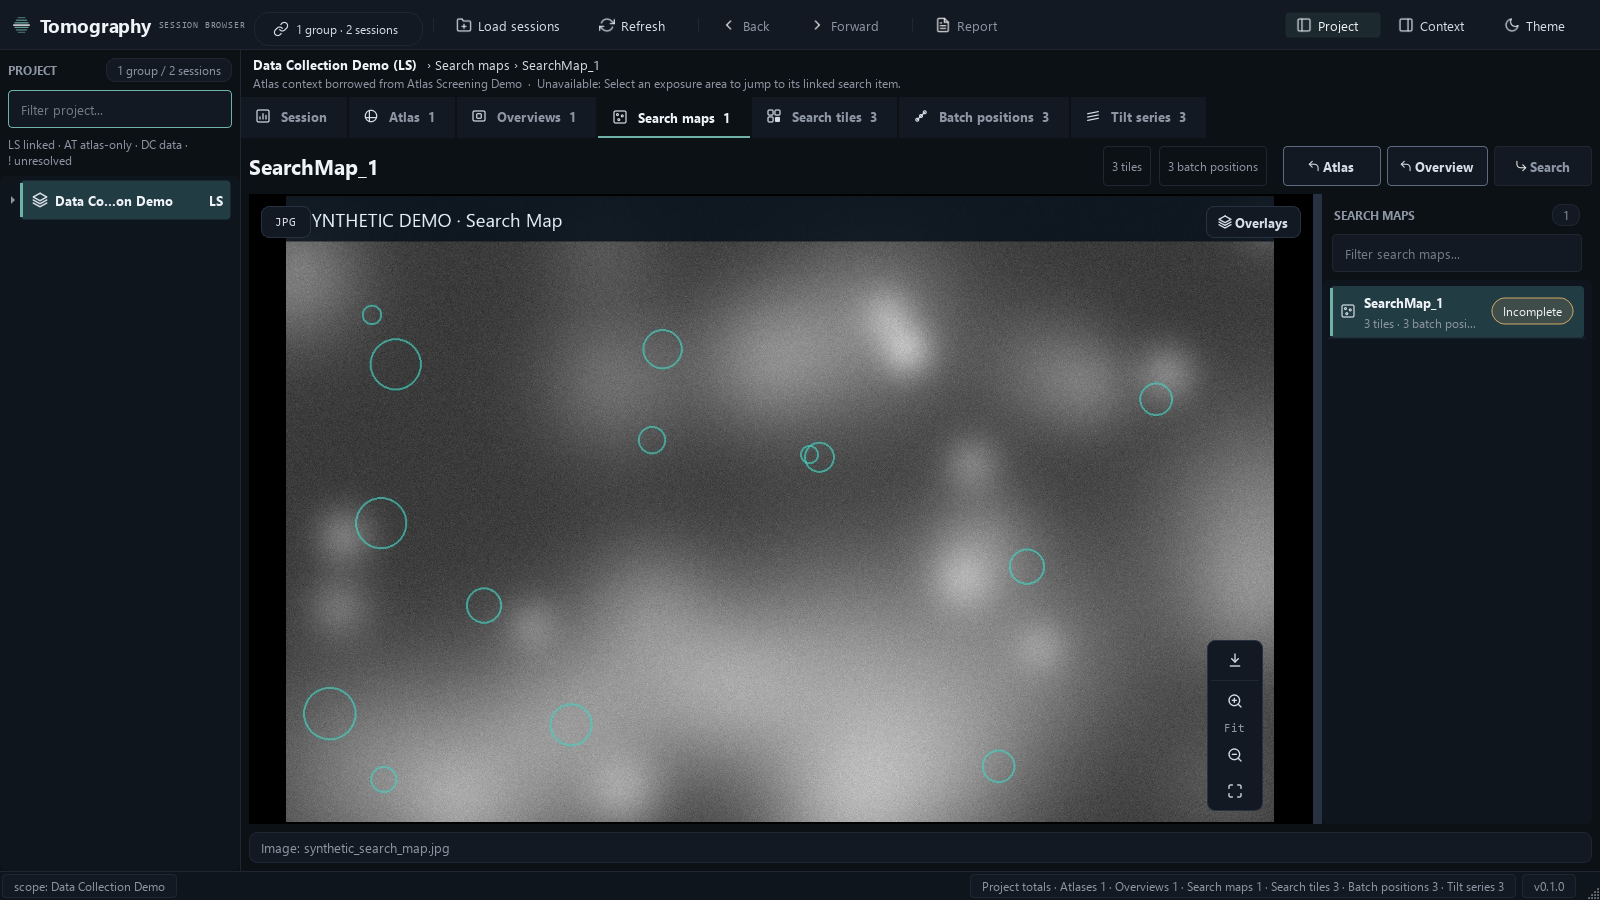
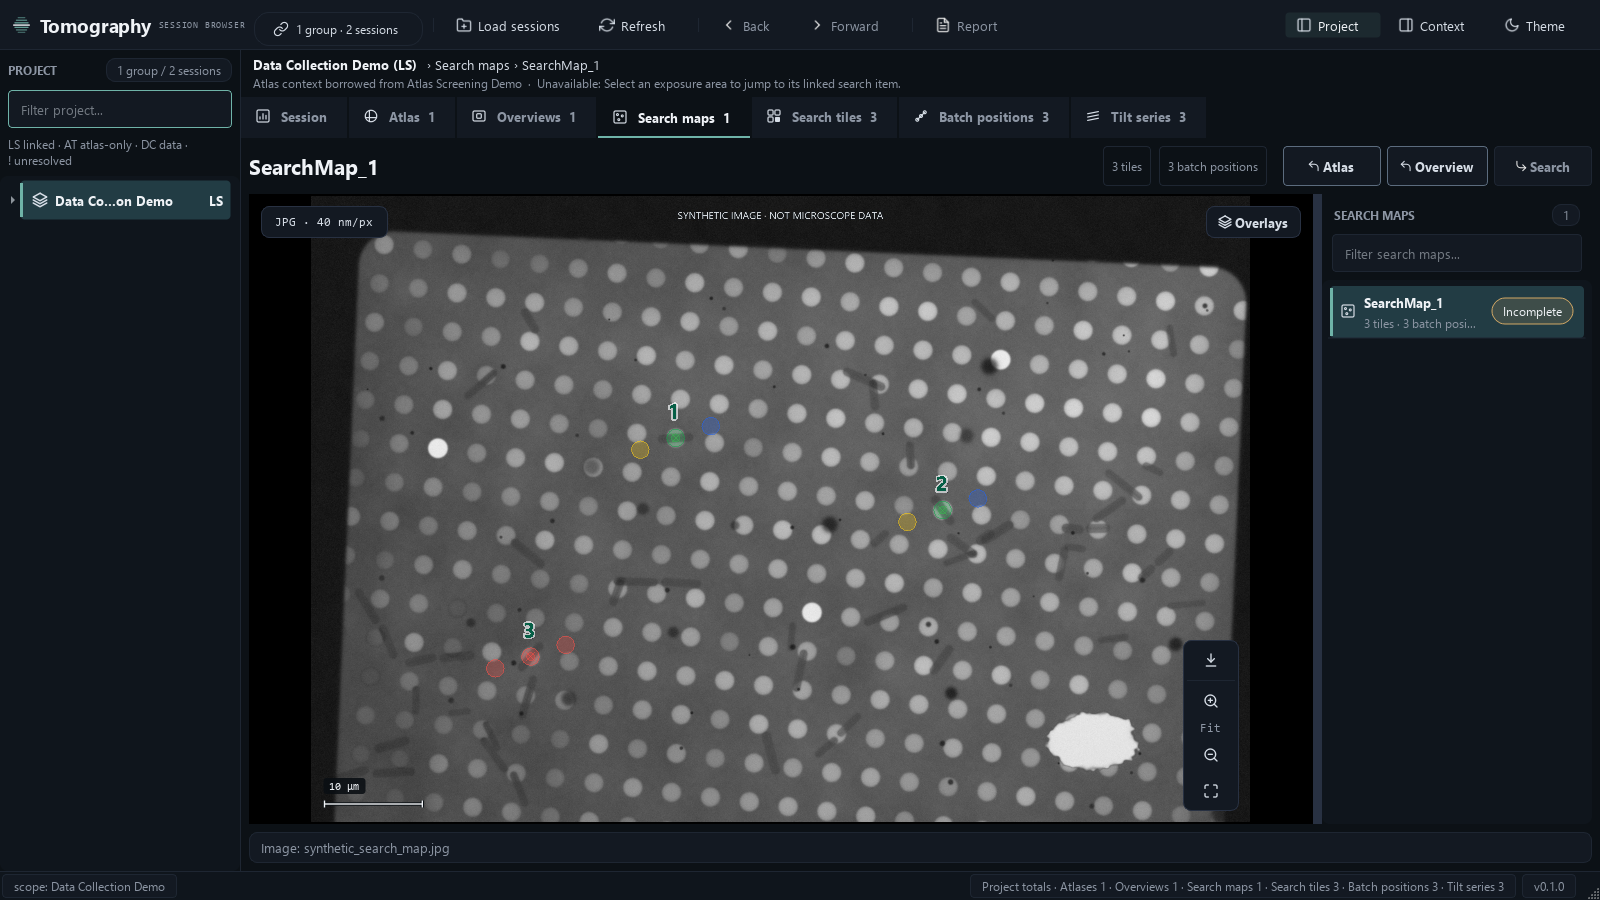
Edit readme

Changed region(s): [[0.1562, 0.2178, 0.8125, 0.9333]]

diff --git a/tools/generate_readme_screenshots.py b/tools/generate_readme_screenshots.py
@@ -21,7 +21,7 @@ import time
 os.environ.setdefault("QT_QPA_PLATFORM", "offscreen")
 
 import numpy as np
-from PIL import Image, ImageDraw, ImageFont
+from PIL import Image, ImageDraw, ImageFilter, ImageFont
 from PySide6.QtCore import QCoreApplication, QEvent, QThreadPool
 from PySide6.QtGui import QFontDatabase
 from PySide6.QtWidgets import QApplication
@@ -39,7 +39,12 @@ from tomography_session_browser.domain.models import (
     Session,
     TiltSeries,
 )
+from tomography_session_browser.domain.markers import MarkerType
 from tomography_session_browser.parsers.session_scanner import SessionScanner
+from tomography_session_browser.services.marker_service import (
+    BEAM_DIAMETER_EXPOSURE_MRC_CONTEXT,
+    search_map_markers,
+)
 from tomography_session_browser.services.settings_service import Settings
 from tomography_session_browser.ui import main_window as main_window_module
 from tomography_session_browser.ui.load_sessions_dialog import LoadSessionsDialog
@@ -93,7 +98,213 @@ def _synthetic_micrograph(path: Path, *, seed: int, title: str, width: int = 150
     image.save(path, quality=92)
 
 
-def _prepare_temporary_files() -> dict[str, Path]:
+#: The synthetic search map: one grid square of holey carbon at 40 nm/px
+#: (96 x 64 um), the scale of a Tomography 5 search-map montage.
+SEARCH_MAP_SIZE = (2400, 1600)
+SEARCH_MAP_PIXEL_SIZE_M = 40e-9
+_HOLE_PITCH_PX = 100.0  # 4 um: an R2/2-style holey film
+_HOLE_RADIUS_PX = 25.0  # 2 um holes
+_HOLE_LATTICE_ANGLE = np.deg2rad(7.0)
+#: Where the three demo targets sit, as fractions of the image: two in thin
+#: ice, the failed one in the thicker ice towards the lower left.
+_TARGET_FRACTIONS = ((0.40, 0.36), (0.66, 0.52), (0.24, 0.74))
+
+
+def _smooth_noise(rng: np.random.Generator, shape: tuple[int, int], cell: int) -> np.ndarray:
+    """Low-frequency noise in about [-1, 1]: a coarse random grid, upsampled."""
+
+    height, width = shape
+    coarse = rng.normal(0.0, 1.0, size=(height // cell + 3, width // cell + 3)).astype(np.float32)
+    image = Image.fromarray(coarse, mode="F").resize((width + 2 * cell, height + 2 * cell), Image.Resampling.BICUBIC)
+    field = np.asarray(image, dtype=np.float32)[cell : cell + height, cell : cell + width]
+    return field / max(float(np.abs(field).max()), 1e-6)
+
+
+def _hole_centre_near(x: float, y: float) -> tuple[float, float]:
+    """The centre of the lattice hole nearest to image point (x, y)."""
+
+    cos_a, sin_a = np.cos(_HOLE_LATTICE_ANGLE), np.sin(_HOLE_LATTICE_ANGLE)
+    u = round((x * cos_a + y * sin_a) / _HOLE_PITCH_PX) * _HOLE_PITCH_PX
+    v = round((-x * sin_a + y * cos_a) / _HOLE_PITCH_PX) * _HOLE_PITCH_PX
+    return float(u * cos_a - v * sin_a), float(u * sin_a + v * cos_a)
+
+
+def _sigmoid(values: np.ndarray) -> np.ndarray:
+    return 1.0 / (1.0 + np.exp(np.clip(values, -60.0, 60.0)))
+
+
+def _paint_cell(
+    image: np.ndarray,
+    in_hole: np.ndarray,
+    centre: tuple[float, float],
+    angle: float,
+    length: float,
+    width: float,
+    darkness: float,
+) -> None:
+    """Darken a rod-shaped cell (a capsule with a membrane rim) into ``image``.
+
+    A cell over a hole has far more contrast than one lying on carbon.
+    """
+
+    half = length / 2.0 + width
+    x0 = max(int(centre[0] - half - 4), 0)
+    x1 = min(int(centre[0] + half + 4), image.shape[1])
+    y0 = max(int(centre[1] - half - 4), 0)
+    y1 = min(int(centre[1] + half + 4), image.shape[0])
+    if x0 >= x1 or y0 >= y1:
+        return
+    yy, xx = np.mgrid[y0:y1, x0:x1].astype(np.float32)
+    along = (xx - centre[0]) * np.cos(angle) + (yy - centre[1]) * np.sin(angle)
+    across = -(xx - centre[0]) * np.sin(angle) + (yy - centre[1]) * np.cos(angle)
+    core = np.clip(along, -(length / 2.0 - width / 2.0), length / 2.0 - width / 2.0)
+    distance = np.hypot(along - core, across) - width / 2.0
+    inside = _sigmoid(distance / 1.8)
+    rim = np.exp(-((distance + 1.5) ** 2) / (2 * 1.6**2))
+    # Denser towards the long axis, like a cell's cytoplasm.
+    density = 0.8 + 0.2 * np.clip(1.0 - np.abs(across) / (width / 2.0), 0.0, 1.0)
+    contrast = darkness * (0.45 + 0.55 * in_hole[y0:y1, x0:x1])
+    image[y0:y1, x0:x1] *= (1.0 - contrast * inside * density) * (1.0 - 0.14 * rim * (0.4 + 0.6 * in_hole[y0:y1, x0:x1]))
+
+
+def _synthetic_search_map(path: Path, *, seed: int = 4207) -> list[tuple[float, float]]:
+    """Write a plausible synthetic search map; return the demo targets' pixels.
+
+    Entirely procedural, no microscope data: a grid square between copper
+    bars, a holey carbon film whose ice thickens towards the lower left, rod-
+    shaped cells lying across it, ice contamination, a torn patch of film and
+    the faint tile seams of a montage. Each target is a cell over a hole.
+    """
+
+    width, height = SEARCH_MAP_SIZE
+    rng = np.random.default_rng(seed)
+    yy, xx = np.mgrid[0:height, 0:width].astype(np.float32)
+
+    # The grid square: rounded, slightly rotated, bars at the top and sides.
+    grid_angle = np.deg2rad(2.5)
+    centre_x, centre_y = width / 2.0 + 10.0, height / 2.0 + 470.0
+    gx = (xx - centre_x) * np.cos(grid_angle) + (yy - centre_y) * np.sin(grid_angle)
+    gy = -(xx - centre_x) * np.sin(grid_angle) + (yy - centre_y) * np.cos(grid_angle)
+    half, corner = 1135.0, 90.0
+    qx, qy = np.abs(gx) - (half - corner), np.abs(gy) - (half - corner)
+    edge = np.hypot(np.maximum(qx, 0), np.maximum(qy, 0)) + np.minimum(np.maximum(qx, qy), 0) - corner
+    open_area = _sigmoid(edge / 2.5)
+
+    # Ice thickness (0 thin .. 1 thick): thin to the upper right, thicker
+    # towards the lower left and against the bars, where the meniscus sits.
+    thickness = 0.42 - 0.26 * (xx - width / 2.0) / (width / 2.0) + 0.22 * (yy - height / 2.0) / (height / 2.0)
+    thickness += 0.42 * np.exp(np.clip(edge, -1e4, 0.0) / 230.0)
+    thickness += 0.16 * _smooth_noise(rng, (height, width), 170)
+    thickness = np.clip(thickness, 0.0, 1.0)
+
+    film = 0.40 - 0.16 * thickness
+    film += 0.03 * _smooth_noise(rng, (height, width), 70) + 0.018 * _smooth_noise(rng, (height, width), 14)
+
+    # Holes: a square lattice; each hole has its own ice, a few are broken.
+    cos_a, sin_a = np.cos(_HOLE_LATTICE_ANGLE), np.sin(_HOLE_LATTICE_ANGLE)
+    u = xx * cos_a + yy * sin_a
+    v = -xx * sin_a + yy * cos_a
+    iu = np.round(u / _HOLE_PITCH_PX).astype(np.int32)
+    iv = np.round(v / _HOLE_PITCH_PX).astype(np.int32)
+    radial = np.hypot(u - iu * _HOLE_PITCH_PX, v - iv * _HOLE_PITCH_PX) / _HOLE_RADIUS_PX
+    span = (int(iu.min()), int(iv.min()))
+    table_shape = (int(iu.max()) - span[0] + 1, int(iv.max()) - span[1] + 1)
+    hole_offset = rng.normal(0.0, 0.09, size=table_shape).astype(np.float32)
+    broken = rng.random(size=table_shape) < 0.015
+    local_thickness = np.clip(thickness + hole_offset[iu - span[0], iv - span[1]], 0.0, 1.1)
+    # Where the ice is thinnest some holes hold none at all.
+    empty = broken[iu - span[0], iv - span[1]] | (local_thickness < 0.06)
+    hole_ice = 0.94 - 0.62 * local_thickness
+    hole_ice *= 1.0 - 0.22 * np.clip(radial, 0, 1) ** 5  # the thicker meniscus at the rim
+    hole_ice = np.where(empty, 0.97, hole_ice)
+    in_hole = _sigmoid((radial - 1.0) * _HOLE_RADIUS_PX / 1.1)
+    image = film * (1.0 - in_hole) + hole_ice * in_hole
+
+    # A torn patch of film near the lower right: bare grid behind a jagged,
+    # slightly curled carbon edge.
+    tear_x, tear_y = width * 0.83, height * 0.87
+    tear = np.hypot((xx - tear_x) / 115.0, (yy - tear_y) / 70.0)
+    tear += 0.3 * _smooth_noise(rng, (height, width), 30) + 0.12 * _smooth_noise(rng, (height, width), 9)
+    torn = _sigmoid((tear - 1.0) * 40.0)
+    torn_rim = np.exp(-((tear - 1.03) ** 2) / 0.0012)
+    image = image * (1.0 - torn) + 0.96 * torn
+    image *= 1.0 - 0.35 * torn_rim * (1.0 - torn)
+    in_hole = np.maximum(in_hole, torn)
+
+    # Cells: one over each target hole; the rest partly in loose clumps, as
+    # cells settle on a grid, partly scattered.
+    targets = [_hole_centre_near(fx * width, fy * height) for fx, fy in _TARGET_FRACTIONS]
+    cells = [(target, rng.uniform(0, np.pi), rng.uniform(80, 105), rng.uniform(19, 23)) for target in targets]
+    clumps = [(rng.uniform(300, width - 300), rng.uniform(400, height - 200)) for _ in range(4)]
+    while len(cells) < 42:
+        if rng.random() < 0.45:
+            clump = clumps[int(rng.integers(len(clumps)))]
+            centre = (float(clump[0] + rng.normal(0, 110)), float(clump[1] + rng.normal(0, 80)))
+        else:
+            centre = (float(rng.uniform(100, width - 100)), float(rng.uniform(230, height - 40)))
+        if np.hypot(centre[0] - tear_x, centre[1] - tear_y) < 170:
+            continue
+        if min(np.hypot(centre[0] - tx, centre[1] - ty) for tx, ty in targets) < 90:
+            continue  # each target is one clear cell
+        cells.append((centre, rng.uniform(0, np.pi), rng.uniform(50, 120), rng.uniform(15, 23)))
+    for index, (centre, angle, length, cell_width) in enumerate(cells):
+        _paint_cell(image, in_hole, centre, angle, length, cell_width, darkness=rng.uniform(0.44, 0.56))
+        if index >= len(targets) and rng.random() < 0.2:  # a dividing pair
+            offset = length + 4.0
+            twin = (centre[0] + offset * np.cos(angle), centre[1] + offset * np.sin(angle))
+            _paint_cell(image, in_hole, twin, angle + rng.normal(0, 0.12), length * 0.9, cell_width, darkness=0.5)
+
+    # Ice contamination: small dense crystals, a few larger lumps.
+    for _ in range(70):
+        cx, cy = rng.uniform(0, width), rng.uniform(150, height)
+        radius = rng.uniform(2.0, 7.0) if rng.random() < 0.85 else rng.uniform(10.0, 22.0)
+        x0, x1 = max(int(cx - radius * 3), 0), min(int(cx + radius * 3), width)
+        y0, y1 = max(int(cy - radius * 3), 0), min(int(cy + radius * 3), height)
+        if x0 >= x1 or y0 >= y1:
+            continue
+        local = np.hypot(xx[y0:y1, x0:x1] - cx, yy[y0:y1, x0:x1] - cy) / radius
+        image[y0:y1, x0:x1] *= 1.0 - rng.uniform(0.45, 0.75) * _sigmoid((local - 1.0) * 6.0)
+
+    # Grid bars: opaque copper with a little texture.
+    bars = 0.035 + 0.012 * _smooth_noise(rng, (height, width), 30)
+    image = image * open_area + bars * (1.0 - open_area)
+
+    # Montage: 3 x 2 tiles, each with its own gain and a faint vignette.
+    tile_w, tile_h = width / 3.0, height / 2.0
+    column = np.minimum((xx / tile_w).astype(np.int32), 2)
+    row = np.minimum((yy / tile_h).astype(np.int32), 1)
+    gains = 1.0 + rng.normal(0.0, 0.018, size=(2, 3)).astype(np.float32)
+    local_x = (xx - (column + 0.5) * tile_w) / (tile_w / 2.0)
+    local_y = (yy - (row + 0.5) * tile_h) / (tile_h / 2.0)
+    image *= gains[row, column] * (1.0 - 0.035 * (local_x**2 + local_y**2))
+
+    image += rng.normal(0.0, 0.022, size=image.shape).astype(np.float32)
+    pixels = (14 + 226 * np.clip(image, 0.0, 1.0) ** 0.92).astype(np.uint8)
+    picture = Image.fromarray(pixels, mode="L").filter(ImageFilter.GaussianBlur(0.7)).convert("RGB")
+    # Top centre, on the bar: the viewer's badges and controls cover the corners.
+    draw = ImageDraw.Draw(picture, "RGBA")
+    label, font = "SYNTHETIC IMAGE · NOT MICROSCOPE DATA", _font(26)
+    draw.text(((width - draw.textlength(label, font=font)) / 2, 30), label, fill=(210, 220, 228, 170), font=font)
+    picture.save(path, quality=93)
+    return targets
+
+
+def _search_map_stage_offset(pixel: tuple[float, float]) -> tuple[float, float]:
+    """The stage offset (m) from the map centre that the app draws at ``pixel``.
+
+    The inverse of the app's search-map projection, including the Tomography 5
+    point reflection through the image centre (``marker_service``). ``main``
+    checks the round trip, so a change there fails here, not in the picture.
+    """
+
+    width, height = SEARCH_MAP_SIZE
+    return (
+        (width / 2.0 - 1.0 - pixel[0]) * SEARCH_MAP_PIXEL_SIZE_M,
+        (pixel[1] - height / 2.0 + 1.0) * SEARCH_MAP_PIXEL_SIZE_M,
+    )
+
+
+def _prepare_temporary_files() -> tuple[dict[str, Path], list[tuple[float, float]]]:
     if TEMP_DIRECTORY.exists():
         shutil.rmtree(TEMP_DIRECTORY)
     preview_directory = TEMP_DIRECTORY / "previews"
@@ -111,7 +322,10 @@ def _prepare_temporary_files() -> dict[str, Path]:
         "exposure_3": preview_directory / "synthetic_exposure_3.jpg",
     }
     for index, (label, path) in enumerate(paths.items(), start=1):
+        if label == "search_map":
+            continue
         _synthetic_micrograph(path, seed=3100 + index, title=label.replace("_", " ").title())
+    targets = _synthetic_search_map(paths["search_map"])
 
     atlas_root = TEMP_DIRECTORY / "Atlas_Screening_Demo"
     atlas_sample = atlas_root / "Sample1"
@@ -127,7 +341,7 @@ def _prepare_temporary_files() -> dict[str, Path]:
     (collection_sample / "Session.dm").write_text("<Session />", encoding="utf-8")
     paths["atlas_root"] = atlas_root
     paths["collection_root"] = collection_root
-    return paths
+    return paths, targets
 
 
 def _tilt_series(identifier: str, name: str, count: int, *, start: str, end: str) -> TiltSeries:
@@ -168,7 +382,27 @@ def _tilt_series(identifier: str, name: str, count: int, *, start: str, end: str
     )
 
 
-def _build_demo_sessions(paths: dict[str, Path]) -> tuple[Session, Session, SearchMap]:
+def _target_metadata(pixel: tuple[float, float]) -> dict[str, object]:
+    """Batch-position metadata that places a target, and its areas, at ``pixel``.
+
+    The shape Tomography 5 records: the target's stage position, the beam
+    diameter, and the exposure, focus and tracking areas as offsets from it.
+    """
+
+    stage_x, stage_y = _search_map_stage_offset(pixel)
+    return {
+        "PositionOnTileSet": {"StagePositionX": stage_x, "StagePositionY": stage_y},
+        "BeamDiameter": 1.8e-6,
+        "BeamDiameterContext": BEAM_DIAMETER_EXPOSURE_MRC_CONTEXT,
+        "ExposureTemplateAreaParameters": {"Name": "Exposure", "PositionX": 0.0, "PositionY": 0.0},
+        "FocusTemplateAreaParameters": {"Name": "Focus", "PositionX": 3.6e-6, "PositionY": 1.2e-6},
+        "TrackingTemplateAreaParameters": {"Name": "Tracking", "PositionX": -3.6e-6, "PositionY": -1.2e-6},
+    }
+
+
+def _build_demo_sessions(
+    paths: dict[str, Path], targets: list[tuple[float, float]]
+) -> tuple[Session, Session, SearchMap]:
     display_root = Path("C:/Tomography5_Demo")
     atlas_session_path = display_root / "Atlas_Screening_Demo"
     atlas_sample_path = atlas_session_path / "Sample1"
@@ -211,7 +445,14 @@ def _build_demo_sessions(paths: dict[str, Path]) -> tuple[Session, Session, Sear
         tile_paths=[paths[f"search_tile_{index}"] for index in range(1, 4)],
         linked_batch_position_ids=["demo-bp-1", "demo-bp-2", "demo-bp-3"],
         linked_tilt_series_ids=["demo-tilt-1", "demo-tilt-2", "demo-tilt-3"],
-        metadata={"AcquisitionTime": "2026-01-15 09:12", "PixelSize": "3.2 nm"},
+        metadata={
+            "AcquisitionTime": "2026-01-15 09:12",
+            "SearchMap.dm": {
+                "ImageSize": {"width": SEARCH_MAP_SIZE[0], "height": SEARCH_MAP_SIZE[1]},
+                "StagePosition": {"X": 0.0, "Y": 0.0},
+                "pixelSize": {"x": {"numericValue": SEARCH_MAP_PIXEL_SIZE_M}},
+            },
+        },
     )
     tilts = [
         _tilt_series("demo-tilt-1", "Position_1", 41, start="2026-01-15 10:00:00", end="2026-01-15 10:38:00"),
@@ -237,7 +478,7 @@ def _build_demo_sessions(paths: dict[str, Path]) -> tuple[Session, Session, Sear
                 linked_search_map_id=search_map.id,
                 linked_search_tile_id=tile_id,
                 linked_overview_id=overview.id,
-                metadata={"TargetDefocus": -3.0 - (index * 0.2)},
+                metadata={"TargetDefocus": -3.0 - (index * 0.2), **_target_metadata(targets[index - 1])},
             )
         )
         tilt.linked_batch_position_id = batch_id
@@ -290,6 +531,24 @@ def _build_demo_sessions(paths: dict[str, Path]) -> tuple[Session, Session, Sear
     return atlas_session, collection_session, search_map
 
 
+def _check_targets_land_on_their_cells(
+    session: Session, search_map: SearchMap, targets: list[tuple[float, float]]
+) -> None:
+    """Fail loudly if the app would draw a demo target away from its cell."""
+
+    sample = session.samples[0]
+    markers = search_map_markers(search_map, sample.batch_positions, tilt_series=sample.tilt_series)
+    for batch, target in zip(sample.batch_positions, targets):
+        marker = next(
+            (item for item in markers if item.marker_type == MarkerType.BATCH_POSITION and item.linked_object_id == batch.id),
+            None,
+        )
+        if marker is None or marker.x is None or marker.y is None:
+            raise RuntimeError(f"No search-map marker for {batch.name}")
+        if abs(marker.x - target[0]) > 2.0 or abs(marker.y - target[1]) > 2.0:
+            raise RuntimeError(f"{batch.name} drawn at ({marker.x:.0f}, {marker.y:.0f}), expected {target}")
+
+
 def _process_events(app: QApplication, *, milliseconds: int = 300) -> None:
     deadline = time.monotonic() + (milliseconds / 1000)
     while time.monotonic() < deadline:
@@ -311,7 +570,7 @@ def _save_widget(widget, filename: str, app: QApplication) -> None:
 def main() -> int:
     os.chdir(REPOSITORY_ROOT)
     OUTPUT_DIRECTORY.mkdir(parents=True, exist_ok=True)
-    paths = _prepare_temporary_files()
+    paths, targets = _prepare_temporary_files()
 
     app = QApplication.instance() or QApplication(sys.argv[:1])
     # The Qt offscreen plugin does not always discover Windows fonts. Register
@@ -341,7 +600,8 @@ def main() -> int:
     _save_widget(folder_dialog, "01-select-session-folders.png", app)
     folder_dialog.close()
 
-    atlas_session, collection_session, search_map = _build_demo_sessions(paths)
+    atlas_session, collection_session, search_map = _build_demo_sessions(paths, targets)
+    _check_targets_land_on_their_cells(collection_session, search_map, targets)
     window = MainWindow(settings=Settings(theme="dark"))
     window.resize(1600, 900)
     window._integrate_loaded_session(  # noqa: SLF001 - documentation screenshot harness
